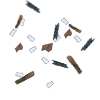
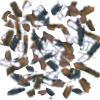
gameScreen: поменял текстуру обломков

diff --git a/Warships_v0/Warships_v0Content/GameScreen.qml b/Warships_v0/Warships_v0Content/GameScreen.qml
@@ -360,16 +360,14 @@ Rectangle {
                                 }
 
                                 opacity: targetOpacity
-
-                                Behavior on opacity { NumberAnimation { duration: 50 } }
                             }
 
                             Image {
                                 id: wreckImage
                                 anchors.centerIn: parent
                                 z: 16
-                                width: myBoard.cellSize * 0.8
-                                height: myBoard.cellSize * 0.8
+                                width: myBoard.cellSize
+                                height: myBoard.cellSize
 
                                 source: "images/Trash.png"
 
@@ -389,7 +387,7 @@ Rectangle {
                                 opacity: targetOpacity
                                 visible: opacity > 0
 
-                                Behavior on opacity { NumberAnimation { duration: 200 } }
+                                Behavior on opacity { NumberAnimation { duration: 100 } }
                             }
 
                             Rectangle {
@@ -561,8 +559,8 @@ Rectangle {
                                 id: enemyWreckImage
                                 anchors.centerIn: parent
                                 z: 16
-                                width: enemyBoard.cellSize * 0.8
-                                height: enemyBoard.cellSize * 0.8
+                                width: enemyBoard.cellSize
+                                height: enemyBoard.cellSize
 
                                 source: "images/Trash.png"
 
@@ -582,7 +580,7 @@ Rectangle {
                                 opacity: targetOpacity
                                 visible: opacity > 0
 
-                                Behavior on opacity { NumberAnimation { duration: 200 } }
+                                Behavior on opacity { NumberAnimation { duration: 100 } }
                             }
 
                             Rectangle {
